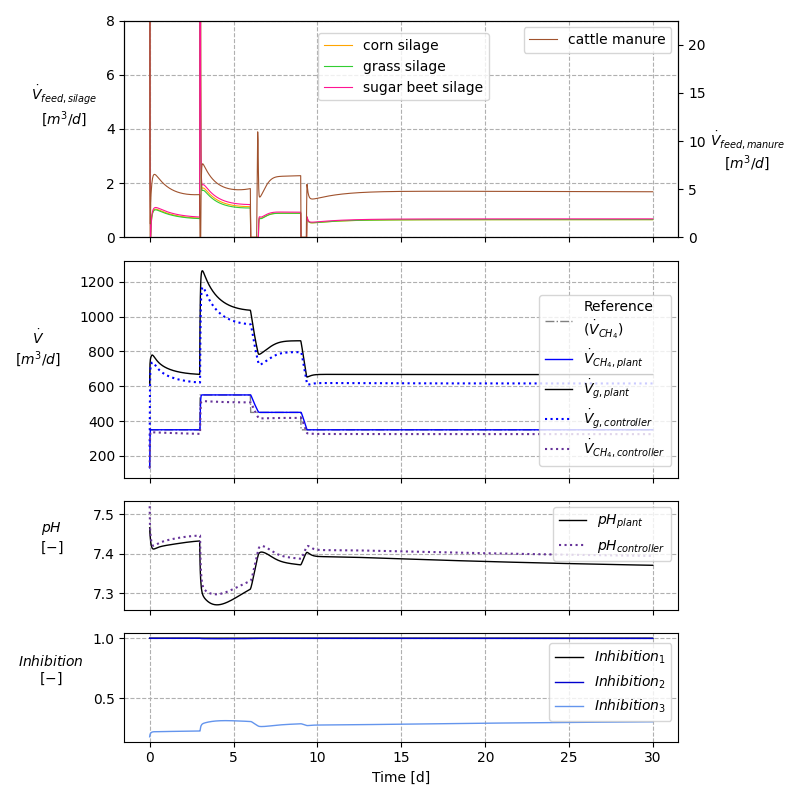
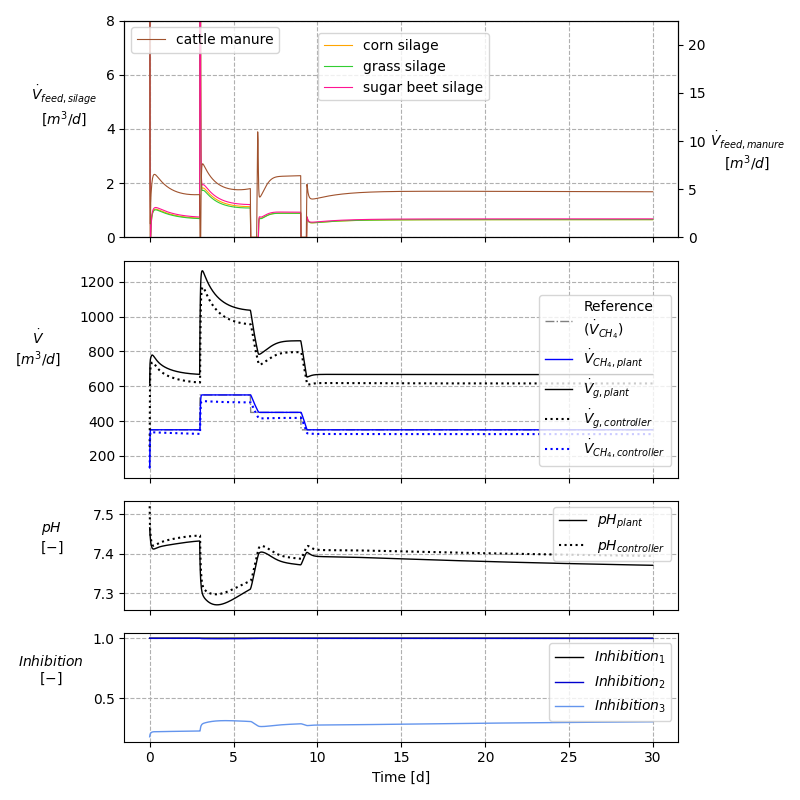
Corrected sensitivity plots

Changed region(s): [[0.6875, 0.0312, 0.8438, 0.0625], [0.2188, 0.0312, 0.3438, 0.0625], [0.1562, 0.0312, 0.1875, 0.0625]]

diff --git a/ad_meal_prep_control/plot_generation/Controller_output_plotting/Output_Scenario_1a.py b/ad_meal_prep_control/plot_generation/Controller_output_plotting/Output_Scenario_1a.py
@@ -25,16 +25,28 @@ def controller_plotting_1a (scenario_names=None):
         if not metadata['feedback']:
             plant_output = np.genfromtxt(f'../scenarios/results/Plant Output {scenario}.csv', delimiter=' ')
 
-            fig.axes[2].plot(np.linspace(0, 30, num=plant_output.shape[0]), plant_output[:, 1], 'rebeccapurple',
+            fig.axes[2].plot(np.linspace(0, 30, num=plant_output.shape[0]), plant_output[:, 1], 'black',
                              linestyle = 'dotted', label=r'$pH_{controller}$')
-            fig.axes[1].plot(np.linspace(0, 30, num=plant_output.shape[0]), plant_output[:, 0], 'blue',
+            fig.axes[1].plot(np.linspace(0, 30, num=plant_output.shape[0]), plant_output[:, 0], 'black',
                              linestyle = 'dotted', label=r"$\dot V_{g, controller}$")
-            fig.axes[1].plot(np.linspace(0, 30, num=plant_output.shape[0]), plant_output[:, 2], 'rebeccapurple',
+            fig.axes[1].plot(np.linspace(0, 30, num=plant_output.shape[0]), plant_output[:, 2], 'blue',
                              linestyle = 'dotted', label=r"$\dot V_{CH_4, controller}$")
 
-            print(f'{scenario}_NRMSE_pH = ', nRMSE(x_est =mpc['mpc']['_aux', 'y_4'], x_true =plant_output[:, [1]]))
-            print(f'{scenario}_NRMSE_gas = ', nRMSE(x_est =mpc['mpc']['_aux', 'y_1'], x_true =plant_output[:, [0]]))
-            print(f'{scenario}_NRMSE_ch4 = ', nRMSE(x_est =mpc['mpc']['_aux', 'v_ch4_dot_tank_in'], x_true =plant_output[:, [2]]))
+            error_ph =(f'{scenario}_NRMSE_pH = ', nRMSE(x_est =mpc['mpc']['_aux', 'y_4'], x_true =plant_output[:, [1]]))
+            error_gas = (f'{scenario}_NRMSE_gas = ', nRMSE(x_est =mpc['mpc']['_aux', 'y_1'], x_true =plant_output[:, [0]]))
+            error_ch4 = (f'{scenario}_NRMSE_ch4 = ', nRMSE(x_est =mpc['mpc']['_aux', 'v_ch4_dot_tank_in'], x_true =plant_output[:, [2]]))
+
+            results = [
+                [f"{scenario}_NRMSE_pH", error_ph],
+                [f"{scenario}_NRMSE_gas", error_gas],
+                [f"{scenario}_NRMSE_ch4", error_ch4]
+            ]
+
+            output_file = f'../scenarios/results/plots/Sensitivity/{scenario}_NRMSE.txt'
+            with open(output_file, 'w') as f:
+                f.write("Metric, Value\n")  # Header for clarity
+                for metric, value in results:
+                    f.write(f"{metric}, {value}\n")
 
             remove_duplicate_labels(fig, 0, legend_location='center right', bbox_to_anchor=(1,1))
             remove_duplicate_labels(fig, 2, legend_location='center right', bbox_to_anchor=(1,0.7))

diff --git a/ad_meal_prep_control/simulation.py b/ad_meal_prep_control/simulation.py
@@ -305,7 +305,26 @@ class Simulation:
             self._xi_pr_sim = np.array([xi_pr_nom])
             self._xi_li_sim = np.array([xi_li_nom])
         else:
-            if '_ch' and 'no_feedback' in self.scenario.name:
+            if self.scenario.feedback:
+                self._xi_ch_sim = np.array(
+                    [
+                        xi_ch_nom
+                        # + np.random.choice([-1, 1], size=xi_ch_nom.size)
+                        + self.scenario.num_std_devs_sim
+                        * xi_ch_std_dev
+                    ]
+                )
+                self._xi_pr_sim = np.array(
+                    [
+                        xi_pr_nom
+                    ]
+                )
+                self._xi_li_sim = np.array(
+                    [
+                        xi_li_nom
+                    ]
+                )
+            elif '_ch' in self.scenario.name:
                 self._xi_ch_sim = np.array(
                     [
                         xi_ch_nom
@@ -324,7 +343,7 @@ class Simulation:
                         xi_li_nom
                     ]
                 )
-            if '_pr' and 'no_feedback' in self.scenario.name:
+            elif '_pr' in self.scenario.name:
                 self._xi_ch_sim = np.array(
                     [
                         xi_ch_nom
@@ -343,7 +362,7 @@ class Simulation:
                         xi_li_nom
                     ]
                 )
-            if '_li' and 'no_feedback' in self.scenario.name:
+            elif '_li' in self.scenario.name:
                 self._xi_ch_sim = np.array(
                     [
                         xi_ch_nom
